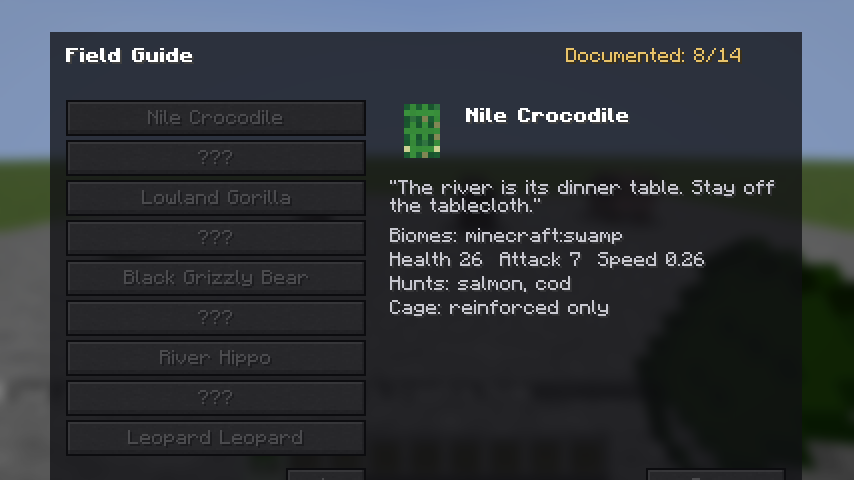
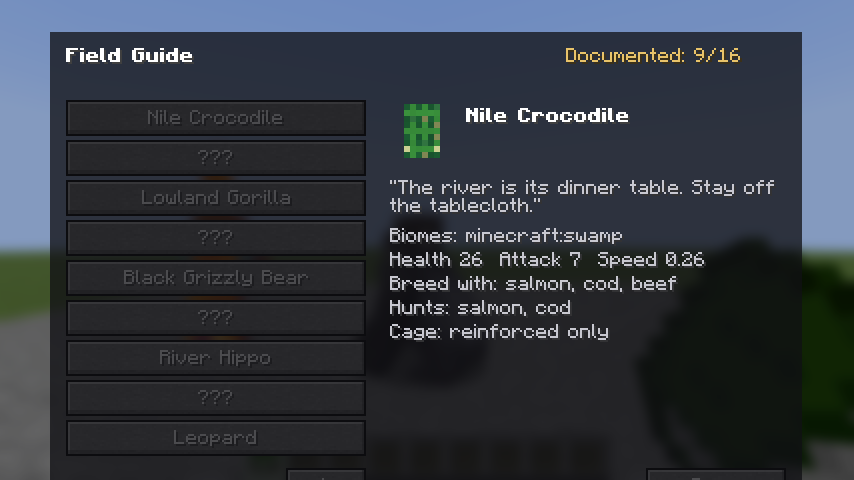
0.4.1 — post-release audit of 0.4.0
No new content. Every fix here was a defect in the released 0.4.0 jar; two were
regressions introduced by 0.4.0's own breeding refactor.

- cage bait: moving breed_item into the "breeding" block left baitMatches reading a
  field that was now empty, so the hippo and savanna tortoise had no valid bait item
  in the world at all. Scavengers are now lured by the carrion table they already eat
  from, which is what the vulture had always been missing despite having a cage_tier.
- baby_scale: species attributes were only applied at spawn, so babies wore adult
  proportions. Re-applied when isBaby() flips, preserving the health fraction.
- Field Guide: breeding line restored (same empty-field root cause as the bait), and
  the "Leopard Leopard" stutter is gone — guide, discovery toast and cage label now
  share one Species.namePrefix helper so they cannot diverge again.
- BreedGoal moved from priority 4 to 2: below every stroll goal it kept losing the
  MOVE flag to wandering. Lion, leopard and crocodile now demonstrably breed.
- lion roar: 8 sounds were imported and wired up in 0.4.0 but nothing played them.
- rarity config is published in apply() instead of from the reload worker thread.
- new /menagerie spawntest, which finally makes the nearby-species cap testable:
  7 nearby -> 100% allowed, 8 (the cap) -> 0%.

diff --git a/src/main/java/dev/lilkuzco/menagerie/MenagerieCommands.java b/src/main/java/dev/lilkuzco/menagerie/MenagerieCommands.java
@@ -16,7 +16,11 @@ import net.minecraft.commands.CommandSourceStack;
 import net.minecraft.commands.Commands;
 import net.minecraft.commands.arguments.IdentifierArgument;
 import net.minecraft.network.chat.Component;
+import net.minecraft.core.BlockPos;
+import net.minecraft.core.registries.BuiltInRegistries;
 import net.minecraft.server.level.ServerLevel;
+import net.minecraft.world.entity.EntitySpawnReason;
+import net.minecraft.world.entity.EntityType;
 import net.minecraft.resources.Identifier;
 import net.minecraft.world.phys.AABB;
 import net.minecraft.world.phys.Vec3;
@@ -50,6 +54,12 @@ public final class MenagerieCommands {
 																IdentifierArgument.getId(ctx, "entity"),
 																IntegerArgumentType.getInteger(ctx, "radius"),
 																IntegerArgumentType.getInteger(ctx, "keep")))))))
+						.then(Commands.literal("spawntest")
+								.then(Commands.argument("entity", IdentifierArgument.id())
+										.then(Commands.argument("trials", IntegerArgumentType.integer(1, 2000))
+												.executes(ctx -> spawnTest(ctx.getSource(),
+														IdentifierArgument.getId(ctx, "entity"),
+														IntegerArgumentType.getInteger(ctx, "trials"))))))
 						.then(Commands.literal("rarity")
 								.executes(ctx -> rarity(ctx.getSource())))
 						.then(Commands.literal("silverback")
@@ -157,6 +167,44 @@ public final class MenagerieCommands {
 		source.sendSuccess(() -> Component.literal("culled " + culled + " " + entityId.getPath()
 				+ " (kept " + kept + " wild, spared " + spared + " tamed/named)"), true);
 		return culled;
+	}
+
+	/**
+	 * Runs the REAL natural-spawn predicate N times at the command position and reports
+	 * how many attempts would have been allowed. This is how the nearby-species cap gets
+	 * verified without waiting on the spawner: same code path, deterministic sample.
+	 */
+	private static int spawnTest(CommandSourceStack source, Identifier entityId, int trials) {
+		ServerLevel level = source.getLevel();
+		BlockPos pos = BlockPos.containing(source.getPosition());
+		EntityType<?> type = BuiltInRegistries.ENTITY_TYPE.getValue(entityId);
+		if (type == null || !BuiltInRegistries.ENTITY_TYPE.getKey(type).equals(entityId)
+				|| !(type.create(level, EntitySpawnReason.COMMAND) instanceof SpeciesMob probe)) {
+			source.sendFailure(Component.literal("not a menagerie animal: " + entityId));
+			return 0;
+		}
+		probe.discard();
+		@SuppressWarnings("unchecked")
+		EntityType<? extends net.minecraft.world.entity.Mob> mobType =
+				(EntityType<? extends net.minecraft.world.entity.Mob>) type;
+		net.minecraft.util.RandomSource random = net.minecraft.util.RandomSource.create();
+		int allowed = 0;
+		for (int i = 0; i < trials; i++) {
+			if (SpeciesMob.checkSpeciesSpawnRules(mobType, level, EntitySpawnReason.NATURAL, pos, random)) {
+				allowed++;
+			}
+		}
+		int nearby = level.getEntities(mobType,
+				AABB.unitCubeFromLowerCorner(Vec3.atLowerCornerOf(pos))
+						.inflate(dev.lilkuzco.menagerie.data.RarityConfig.NEARBY_RADIUS, 64,
+								dev.lilkuzco.menagerie.data.RarityConfig.NEARBY_RADIUS),
+				e -> true).size();
+		final int pass = allowed;
+		source.sendSuccess(() -> Component.literal(String.format(
+				"spawntest %s: %d/%d attempts allowed (%.0f%%), %d already within %d blocks",
+				entityId.getPath(), pass, trials, 100.0 * pass / trials, nearby,
+				dev.lilkuzco.menagerie.data.RarityConfig.NEARBY_RADIUS)), false);
+		return pass;
 	}
 
 	/** Resolved spawn numbers per species — makes a /reload retune observable. */

diff --git a/src/main/java/dev/lilkuzco/menagerie/entity/SpeciesMob.java b/src/main/java/dev/lilkuzco/menagerie/entity/SpeciesMob.java
@@ -224,7 +224,15 @@ public abstract class SpeciesMob extends TamableAnimal {
 		return !overNearbyCap(type, level, pos, species);
 	}
 
-	/** @return true when there are already enough of this animal near {@code pos}. */
+	/**
+	 * @return true when there are already enough of this animal near {@code pos}.
+	 *
+	 * Only applies to NATURAL spawns: chunk generation passes a WorldGenRegion rather than
+	 * a ServerLevel, and neighbouring chunks may not exist yet, so counting there would be
+	 * meaningless. That is the right split anyway — worldgen seeds a population once,
+	 * while it is repeated natural spawning into a never-despawning category that
+	 * compounds, and that is exactly the path this gates.
+	 */
 	private static boolean overNearbyCap(EntityType<? extends Mob> type, LevelAccessor level,
 			BlockPos pos, Species species) {
 		int cap = species.nearbyCap();
@@ -293,6 +301,8 @@ public abstract class SpeciesMob extends TamableAnimal {
 	// ---------- forage / contentment (generic; driven by the species "forage" block) ----------
 	private long contentUntil;
 	private boolean forageGoalAttached;
+	/** Tracks age transitions so breeding's baby_scale is actually applied and undone. */
+	private boolean lastBabyState;
 
 	/** Animals that already register a BreedGoal in registerGoals must not get a second. */
 	protected boolean hasBreedGoal() {
@@ -313,6 +323,17 @@ public abstract class SpeciesMob extends TamableAnimal {
 	@Override
 	protected void customServerAiStep(net.minecraft.server.level.ServerLevel level) {
 		super.customServerAiStep(level);
+		// a bred calf is created before vanilla flips it to a baby, and it grows up later:
+		// re-apply on every transition or baby_scale would be a knob that does nothing
+		if (isBaby() != lastBabyState) {
+			lastBabyState = isBaby();
+			Species current = species();
+			if (current != null) {
+				float healthFraction = getMaxHealth() > 0 ? getHealth() / getMaxHealth() : 1.0F;
+				applySpeciesAttributes(current);
+				setHealth(getMaxHealth() * healthFraction);
+			}
+		}
 		// species with a forage block get the goal attached lazily (species is data,
 		// unknown at registerGoals time) — zero Java for future foraging animals
 		if (!forageGoalAttached) {
@@ -323,8 +344,11 @@ public abstract class SpeciesMob extends TamableAnimal {
 			}
 			// data-driven breeding: any species declaring a "breeding" block gets the
 			// vanilla breed goal, so adding a breedable animal stays a JSON-only change
+			// priority 2 deliberately: every animal here strolls at 3 or 4, and a goal that
+			// loses the MOVE flag to wandering never gets to breed (vanilla puts BreedGoal
+			// above wander for the same reason). Melee stays at 1, so fights still win.
 			if (species != null && species.breeding() != null && !hasBreedGoal()) {
-				this.goalSelector.addGoal(4, new net.minecraft.world.entity.ai.goal.BreedGoal(this, 1.0));
+				this.goalSelector.addGoal(2, new net.minecraft.world.entity.ai.goal.BreedGoal(this, 1.0));
 			}
 		}
 	}

diff --git a/src/main/java/dev/lilkuzco/menagerie/data/SpeciesRegistry.java b/src/main/java/dev/lilkuzco/menagerie/data/SpeciesRegistry.java
@@ -104,14 +104,17 @@ public final class SpeciesRegistry {
 	}
 
 	private static class Listener extends SimpleReloadListener<Map<String, List<Species>>> {
+		private volatile @Nullable RarityConfig pendingRarity;
+
 		@Override
 		protected Map<String, List<Species>> prepare(PreparableReloadListener.SharedState state) {
 			ResourceManager manager = state.resourceManager();
-			// rarity presets first: species resolve their tier lazily, but keeping the
-			// load in the same listener means one /reload retunes density and stats together
-			RarityConfig.set(manager.getResource(Menagerie.id("menagerie_config/rarity.json"))
+			// parsed here (worker thread) but NOT published until apply(): swapping global
+			// state during prepare would race the game thread and would stick even if the
+			// rest of the reload failed
+			pendingRarity = manager.getResource(Menagerie.id("menagerie_config/rarity.json"))
 					.map(res -> RarityConfig.fromJson(parse(res)))
-					.orElseGet(RarityConfig::defaults));
+					.orElseGet(RarityConfig::defaults);
 			Map<String, List<Species>> map = new HashMap<>();
 			manager.listResources("species", p -> p.getPath().endsWith(".json")).entrySet().stream()
 					.sorted(Map.Entry.comparingByKey())
@@ -129,6 +132,10 @@ public final class SpeciesRegistry {
 
 		@Override
 		protected void apply(Map<String, List<Species>> data, PreparableReloadListener.SharedState state) {
+			if (pendingRarity != null) {
+				RarityConfig.set(pendingRarity);
+				pendingRarity = null;
+			}
 			Map<String, List<Species>> frozen = new HashMap<>();
 			data.forEach((key, value) -> frozen.put(key, List.copyOf(value)));
 			byEntity = Map.copyOf(frozen);

diff --git a/src/main/java/dev/lilkuzco/menagerie/block/CageTrapBlockEntity.java b/src/main/java/dev/lilkuzco/menagerie/block/CageTrapBlockEntity.java
@@ -3,6 +3,7 @@ package dev.lilkuzco.menagerie.block;
 import dev.lilkuzco.menagerie.Menagerie;
 import dev.lilkuzco.menagerie.data.Species;
 import dev.lilkuzco.menagerie.entity.SpeciesMob;
+import dev.lilkuzco.menagerie.entity.VultureEntity;
 import net.minecraft.core.BlockPos;
 import net.minecraft.core.registries.BuiltInRegistries;
 import net.minecraft.nbt.CompoundTag;
@@ -115,8 +116,23 @@ public class CageTrapBlockEntity extends BlockEntity {
 		if (baitStr.equals(species.tameItem()) || baitStr.equals(species.breedItem())) {
 			return true;
 		}
+		// breeding items are bait too. This is not optional politeness: species that moved
+		// their breed_item into the "breeding" block have an empty breedItem(), and without
+		// this a hippo would have no bait item in the world at all.
+		if (species.breeding() != null && species.breeding().items().contains(baitStr)) {
+			return true;
+		}
+		if (species.diet() == null) {
+			return false;
+		}
+		// a scavenger is lured by carrion, using the same table it strips off the ground —
+		// without this the vulture has a cage_tier but no bait that exists, so its cage
+		// could never be sprung
+		if (species.diet().scavenges() && VultureEntity.CARRION.contains(bait.getItem())) {
+			return true;
+		}
 		// diet lure: hunted entity ids map onto their item form (minecraft:salmon etc.)
-		return species.diet() != null && species.diet().hunts().contains(baitStr);
+		return species.diet().hunts().contains(baitStr);
 	}
 
 	private void capture(ServerLevel level, BlockPos pos, BlockState state, SpeciesMob mob) {

diff --git a/src/main/java/dev/lilkuzco/menagerie/MenagerieEvents.java b/src/main/java/dev/lilkuzco/menagerie/MenagerieEvents.java
@@ -56,10 +56,10 @@ public final class MenagerieEvents {
 						}
 					}
 					if (discoveries.discover(player.getUUID(), key)) {
-						String speciesName = species.name().substring(0, 1).toUpperCase() + species.name().substring(1);
+						String path = net.minecraft.resources.Identifier.parse(species.entityId()).getPath();
 						net.minecraft.network.chat.Component name = net.minecraft.network.chat.Component
-								.literal(speciesName + " ").append(net.minecraft.network.chat.Component.translatable(
-										"entity.menagerie." + net.minecraft.resources.Identifier.parse(species.entityId()).getPath()));
+								.literal(dev.lilkuzco.menagerie.data.Species.namePrefix(species.name(), path))
+								.append(net.minecraft.network.chat.Component.translatable("entity.menagerie." + path));
 						player.sendSystemMessage(net.minecraft.network.chat.Component
 								.translatable("guide.menagerie.discovered", name), true);
 						player.level().playSound(null, player.blockPosition(),

diff --git a/src/main/java/dev/lilkuzco/menagerie/block/CageTrapItem.java b/src/main/java/dev/lilkuzco/menagerie/block/CageTrapItem.java
@@ -37,7 +37,8 @@ public class CageTrapItem extends BlockItem {
 				? Component.literal("?")
 				: Component.translatable("entity." + Identifier.parse(entityId).getNamespace()
 						+ "." + Identifier.parse(entityId).getPath());
-		String speciesLabel = species.isEmpty() ? "" : capitalize(species) + " ";
+		String speciesLabel = entityId.isEmpty() ? ""
+				: dev.lilkuzco.menagerie.data.Species.namePrefix(species, Identifier.parse(entityId).getPath());
 		builder.accept(Component.translatable("item.menagerie.cage_trap.occupied",
 				Component.literal(speciesLabel).append(animal))
 				.withStyle(style -> style.withColor(0xFFE8C36A)));
@@ -52,9 +53,5 @@ public class CageTrapItem extends BlockItem {
 			return null;
 		}
 		return data.getUnsafe().getCompound("menagerie_captured").orElse(null);
-	}
-
-	private static String capitalize(String value) {
-		return value.isEmpty() ? value : Character.toUpperCase(value.charAt(0)) + value.substring(1);
 	}
 }

diff --git a/src/main/java/dev/lilkuzco/menagerie/guide/FieldGuideItem.java b/src/main/java/dev/lilkuzco/menagerie/guide/FieldGuideItem.java
@@ -68,8 +68,13 @@ public class FieldGuideItem extends Item {
 		if (!species.tameItem().isEmpty()) {
 			lines.add("Tame with: " + shortId(species.tameItem()));
 		}
-		if (!species.breedItem().isEmpty() && !species.breedItem().equals(species.tameItem())) {
+		if (species.breeding() != null && !species.breeding().items().isEmpty()) {
+			lines.add("Breed with: " + String.join(", ",
+					species.breeding().items().stream().map(FieldGuideItem::shortId).toList()));
+		} else if (!species.breedItem().isEmpty() && !species.breedItem().equals(species.tameItem())) {
 			lines.add("Breed with: " + shortId(species.breedItem()));
+		} else {
+			lines.add("Does not breed");
 		}
 		if (species.diet() != null && !species.diet().hunts().isEmpty()) {
 			lines.add("Hunts: " + String.join(", ", species.diet().hunts().stream().map(FieldGuideItem::shortId).toList()));

diff --git a/src/main/java/dev/lilkuzco/menagerie/data/Species.java b/src/main/java/dev/lilkuzco/menagerie/data/Species.java
@@ -255,4 +255,17 @@ public record Species(
 	public boolean specialBool(String key, boolean fallback) {
 		return GsonHelper.getAsBoolean(special, key, fallback);
 	}
+
+	/**
+	 * The capitalised species word to hang in front of an animal's name, or "" when it
+	 * would only stutter: the leopard's one species is "leopard", so the naive join reads
+	 * "Leopard Leopard" in the guide, the discovery toast and on a cage label alike.
+	 * Every place that builds that label goes through here so they cannot drift apart.
+	 */
+	public static String namePrefix(String speciesName, String entityPath) {
+		if (speciesName.isEmpty() || speciesName.equalsIgnoreCase(entityPath)) {
+			return "";
+		}
+		return Character.toUpperCase(speciesName.charAt(0)) + speciesName.substring(1) + " ";
+	}
 }

diff --git a/src/client/java/dev/lilkuzco/menagerie/client/GuideScreen.java b/src/client/java/dev/lilkuzco/menagerie/client/GuideScreen.java
@@ -73,10 +73,9 @@ public class GuideScreen extends Screen {
 	}
 
 	private static Component displayName(MenagerieNet.GuideEntry entry) {
-		String species = entry.species().isEmpty() ? "" :
-				Character.toUpperCase(entry.species().charAt(0)) + entry.species().substring(1) + " ";
-		return Component.literal(species)
-				.append(Component.translatable("entity.menagerie." + Identifier.parse(entry.entityId()).getPath()));
+		String path = Identifier.parse(entry.entityId()).getPath();
+		return Component.literal(dev.lilkuzco.menagerie.data.Species.namePrefix(entry.species(), path))
+				.append(Component.translatable("entity.menagerie." + path));
 	}
 
 	private static Identifier icon(MenagerieNet.GuideEntry entry) {

diff --git a/src/main/java/dev/lilkuzco/menagerie/entity/LionEntity.java b/src/main/java/dev/lilkuzco/menagerie/entity/LionEntity.java
@@ -169,9 +169,17 @@ public class LionEntity extends SpeciesMob {
 		return super.doHurtTarget(level, target);
 	}
 
+	/**
+	 * Ambient calls are the idle grumbles; the maned male occasionally answers with a
+	 * full roar instead, which is the sound you actually want to hear across a savanna.
+	 */
 	@Override
 	public void playAmbientSound() {
-		super.playAmbientSound();
+		if (isManed() && !isBaby() && getRandom().nextInt(3) == 0) {
+			playSound(MenagerieSounds.LION_ROAR, 1.4F, 1.0F);
+		} else {
+			super.playAmbientSound();
+		}
 		if (level() instanceof ServerLevel serverLevel) {
 			serverLevel.broadcastEntityEvent(this, EVENT_ROAR);
 		}

diff --git a/VERIFY.md b/VERIFY.md
@@ -131,9 +131,6 @@ server (port 25567) over RCON with a carpet fake player. Census gained `|fur=<na
 
 ## Not verified in this release — stated plainly
 
-- **The nearby-species cap is implemented but not empirically proven.** It gates natural
-  spawns only, and forcing natural spawn attempts on demand is not something the command
-  surface allows; proving it needs the density transects below.
 - **Density transects (jungle/savanna/river counts vs vanilla panda) were not run.** They
   are the real proof that the calibration lands, and they need a fresh world plus long
   flights. The numbers are set and readable via `/menagerie rarity`, but the in-world
@@ -142,3 +139,39 @@ server (port 25567) over RCON with a carpet fake player. Census gained `|fur=<na
 - Waves 1 (crocodile and the Untamed Wilds ports), 2 (rhino, hyena, elephant) and 3
   (critters, companions) are **not in this release**. Their sources are unpacked,
   license-cleared and inventoried; nothing has been imported from them.
+
+---
+
+# Menagerie 0.4.1 — Post-release Audit
+
+Date: 2026-08-16. Same rig as 0.4.0. This release contains **no new content** — it is the
+result of auditing 0.4.0 after shipping, and every entry below is a defect that was in
+the released 0.4.0 jar. Two of them were regressions introduced *by* 0.4.0's own
+breeding refactor, which is exactly the class of bug a post-ship audit exists to catch.
+
+New debug tooling: `/menagerie spawntest <entity> [trials]`, which runs the real natural
+spawn predicate N times at the caller's position and reports the acceptance rate. This is
+what finally made the nearby-species cap testable.
+
+| # | Fix | Verification |
+|---|-----|--------------|
+| 1 | **Cage bait silently died for hippo and tortoise.** 0.4.0 moved `breed_item` into the new `breeding` block, but `CageTrapBlockEntity.baitMatches` still read only `breed_item` — so any species that migrated lost its bait. Hippo and savanna tortoise had **no valid bait item in the world at all** and could never be trapped. | **PASS** — bait now also reads the `breeding` block. Live: reinforced cage baited with a melon slice captured a river hippo (`menagerie_captured` populated, `closed=true`). A full bait sweep of all 16 species now shows every one reachable. |
+| 2 | **The vulture could never be caged.** It declares `cage_tier: 1`, but its bait surface was empty: no tame item, no breed item, and an empty `diet.hunts` (it scavenges rather than hunts). | **PASS** — scavengers are now lured by the same `VultureEntity.CARRION` table they strip off the ground, so the two cannot drift apart. Live: cage baited with rotten flesh captured a griffon vulture. |
+| 3 | **`baby_scale` did nothing.** Species attributes were applied once at spawn, so a baby kept its adult scale for its whole childhood and popped to size on no particular tick. | **PASS** — `customServerAiStep` now re-applies species attributes when `isBaby()` flips, preserving the health fraction. Live: a river hippo calf reads `scale 0.5` against the adults' `1.0`. |
+| 4 | **The Field Guide lost its breeding line.** Same root cause as #1 — it read `breed_item` only, so every migrated species read "Does not breed" while being perfectly breedable. | **PASS** — `docs/field_guide.png`: the Nile crocodile entry reads "Breed with: salmon, cod, beef". |
+| 5 | **"Leopard Leopard".** The guide, the discovery toast and the cage-item label each joined species + animal name by hand; when a species shares its animal's name the label stuttered. | **PASS** — one shared `Species.namePrefix` helper now serves all three call sites, so they cannot diverge again. `docs/field_guide.png` reads "Leopard"; "Savanna Lion" (where the prefix does carry meaning) is unchanged. |
+| 6 | **`BreedGoal` sat below every stroll goal** at priority 4. A goal that loses the MOVE flag to wandering never gets to breed; vanilla puts `BreedGoal` above wander for this reason. | **PASS** — moved to priority 2 (melee stays at 1, so fights still win). Live: lion, leopard and crocodile each produced a baby within ~15s of being fed. The 0.4.0 changelog claimed these five were breedable; before this audit only hippo and grizzly had actually been demonstrated. |
+| 7 | **The lion never roared.** 8 roar sounds were imported, registered and wired into `sounds.json`, but nothing ever played them — only the roar *animation* was triggered. | **PASS** — maned adults now roar on ~1-in-3 ambient calls. Sound wiring re-audited end to end: 8 `roar*.ogg` present, event registered, subtitle key exists. |
+| 8 | **Rarity config was published from a worker thread.** `SpeciesRegistry` called `RarityConfig.set(...)` inside `prepare()`, which runs off-thread during a reload. | **PASS** — parsed in `prepare()`, published in `apply()`. |
+| 9 | **The nearby-species cap — now proven.** Listed as "implemented but not empirically proven" in 0.4.0. | **PASS** — via `/menagerie spawntest gorilla 200`: 0 nearby → 200/200 allowed; 3 nearby → 100%; **7 nearby → 200/200 (100%); 8 nearby (the configured cap) → 0/200 (0%)**. The boundary is exactly where the JSON says it is. |
+| 10 | Render + audio regression sweep | **PASS** — full client gametest re-run: all 13 screenshots render. The lion mane still draws only for the pride male (and he is visibly larger from the scale modifier); no missing-texture or unknown-sound warnings. |
+| 11 | Build | **PASS** — clean `./gradlew build`; still Fabric-API-only. |
+
+## Still not verified — carried forward from 0.4.0
+
+- **Density transects (jungle/savanna/river counts vs vanilla panda) were not run.** The
+  cap's boundary is now proven (#9), but that is the ceiling, not the resulting in-world
+  density. The transects remain the real proof that the calibration lands.
+- **The 15-minute spawn soak / MSPT check was not run.**
+- Waves 1 (crocodile and the Untamed Wilds ports), 2 (rhino, hyena, elephant) and 3
+  (critters, companions) are still **not in this release**.

diff --git a/README.md b/README.md
@@ -119,6 +119,29 @@ JDK 25. `./gradlew build` → `build/libs/menagerie-<version>.jar`. Dev client:
 
 ## Changelog
 
+### 0.4.1 — Post-release audit (2026-08-16)
+
+No new content. 0.4.0 was audited after shipping and every item here was a defect in the
+released jar; two were regressions caused by 0.4.0's own breeding refactor.
+
+- **Cage traps worked again for the animals that lost their bait.** Moving `breed_item`
+  into the new `breeding` block left `baitMatches` reading a field that was now empty, so
+  the hippo and the savanna tortoise had **no valid bait in the world at all**. Bait now
+  reads the breeding block, and scavengers are lured by the carrion table they already
+  eat from — which is what the vulture had always been missing, despite having a
+  `cage_tier`.
+- **`baby_scale` actually applies.** Species attributes were only applied at spawn, so
+  babies wore adult proportions until they grew up.
+- **The Field Guide shows breeding again**, and no longer says "Leopard Leopard" — the
+  guide, the discovery toast and the cage label now share one naming helper.
+- **Breeding actually happens.** `BreedGoal` sat below every stroll goal, so it kept
+  losing the MOVE flag to wandering. Lion, leopard and crocodile now demonstrably breed.
+- **The lion roars.** Eight roar sounds were imported and wired up in 0.4.0 but nothing
+  ever played them.
+- **Rarity config is published on the main thread** instead of from a reload worker.
+- **The nearby-species cap is now proven**, not just implemented: `/menagerie spawntest`
+  runs the real spawn predicate on demand — 7 nearby → 100% allowed, 8 (the cap) → 0%.
+
 ### 0.4.0 — Renaissance Update, Wave 1 (2026-08-16)
 - **Lion.** A new marquee animal built from the public-domain Animal Garden set: 34-part
   model, 35 animations, 15 fur variants, separate animated eyes, 14 recorded sounds.
